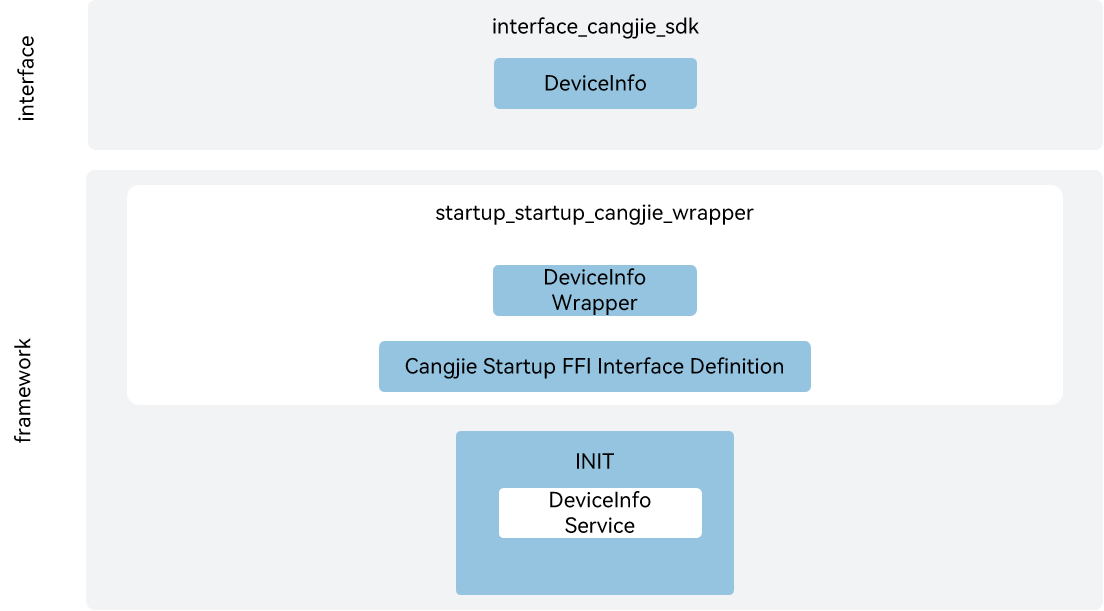
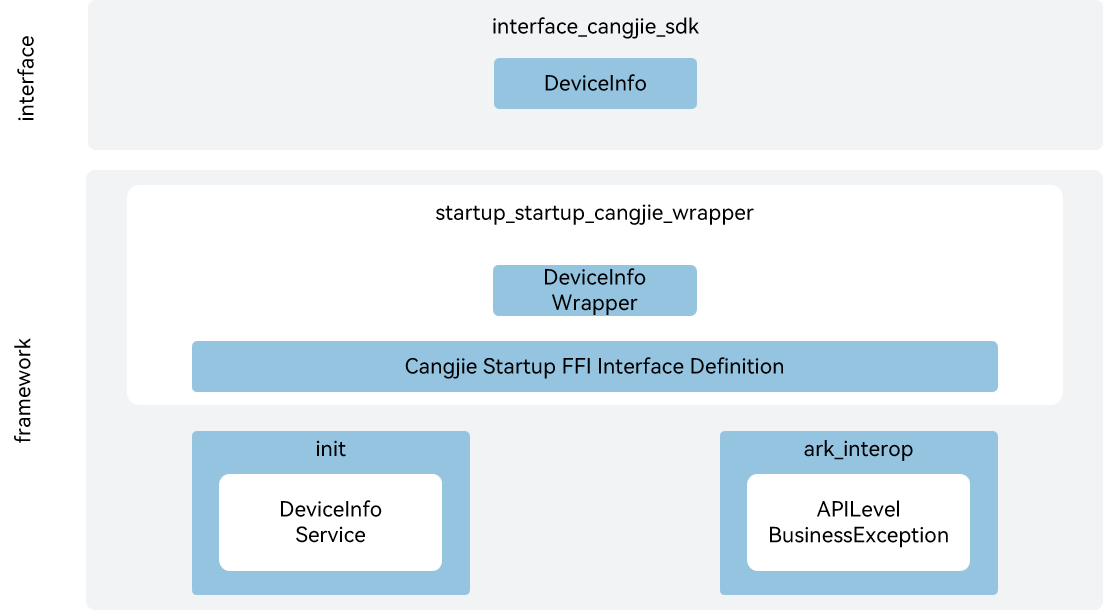
fix readme

diff --git a/README.md b/README.md
@@ -2,35 +2,36 @@
 
 ## Introduction
 
-The startup_startup_cangjie_wrapper is a Cangjie API encapsulated on OpenHarmony based on the capabilities of the startup subsystem. The startup subsystem is responsible for starting key system processes and services after the kernel is started and before applications are started. The currently open CommonEvent apis only support standard devices.
+The startup_startup_cangjie_wrapper is a Cangjie API encapsulated on OpenHarmony based on the capabilities of the startup subsystem. The startup subsystem is mainly responsible for the startup process of key system processes and services after the kernel is started and before the application is started. The currently open startup Cangjie API only supports standard devices.
 
 ## System Architecture
 
 **Figure 1** startup_cangjie_wrapper architecture
 
-![startup_cangjie_wrapper architecture](figures/startup_cangjie_wrapper_architecture_en.png "startup_cangjie_wrapper architecture")
+![startup_cangjie_wrapper architecture](figures/startup_cangjie_wrapper_architecture_en.png)
 
-As shown in the architecture pictures, startup provides DeviceInfo:
+As shown in the architecture diagram, the current startup Cangjie API provides device information services:
 
-- DeviceInfo mainly includes OHOS fixed-value parameters, manufacturer fixed-value parameters, and manufacturer dynamic parameters.
-- Cangjie Startup FFI Interface Definition： Responsible for defining the C-interoperable Cangjie interface, which is used to realize Cangjie's startup capabilities.
-- INIT：Responsible for providing the device information SA service, and encapsulating the C interface for interoperation with Cangjie.
+- DeviceInfo: Mainly includes OHOS fixed-value parameters, manufacturer fixed-value parameters, and manufacturer dynamic parameters.
+- Cangjie Startup FFI Interface Definition: Responsible for defining C language interoperation Cangjie interfaces, used to implement Cangjie startup capabilities.
+- init: Responsible for providing device information SA services, encapsulating C interfaces for interoperation with Cangjie.
+- ark_interop: Provides APILevel and BusinessException.
 
 ## Directory Structure
 
 ```
 base/startup/startup_cangjie_wrapper
-├── figures      # architecture pictures
-└── ohos         # Cangjie Startup code
-│   └── device_info
-└── test         # Cangjie Startup test cases
+├── figures         # architecture pictures
+└── ohos            # Cangjie startup subsystem interface implementation
+│   └── device_info # DeviceInfo module implementation
+└── test            # Cangjie startup subsystem test cases
 ```
 
 ## Usage
 
-The following features provides the capability to query deviceinfo.
+The current startup Cangjie API mainly provides device information services.
 
-For relevant API of startup, please refer to [ohos.device_info (Device Information)](https://gitcode.com/openharmony-sig/arkcompiler_cangjie_ark_interop/blob/master/doc/API_Reference/source_en/apis/BasicServicesKit/cj-apis-device_info.md).
+For startup related APIs, please refer to [ohos.device_info (Device Information)](https://gitcode.com/openharmony-sig/arkcompiler_cangjie_ark_interop/blob/master/doc/API_Reference/source_en/apis/BasicServicesKit/cj-apis-device_info.md).
 
 ## Code Contribution
 
@@ -38,4 +39,5 @@ Developers are welcome to contribute code, documentation, etc. For specific cont
 
 ## Repositories Involved
 
-[startup_init](https://gitee.com/openharmony/startup_init/blob/master/README_zh.md)
+[arkcompiler_cangjie_ark_interop](https://gitcode.com/openharmony-sig/arkcompiler_cangjie_ark_interop)
+[startup_init](https://gitcode.com/openharmony/startup_init)

diff --git a/README_zh.md b/README_zh.md
@@ -2,33 +2,34 @@
 
 ## 简介
 
-启动恢复仓颉接口是在 OpenHarmony 上基于启动恢复子系统能力之上封装的仓颉API。启动恢复负责在内核启动之后到应用启动之前系统关键进程和服务的启动过程。当前开放的启动恢复仓颉接口仅支持standard设备。
+启动恢复仓颉接口是在OpenHarmony上基于启动恢复子系统能力之上封装的仓颉API。启动恢复主要负责在内核启动之后到应用启动之前系统关键进程和服务的启动过程。当前开放的启动恢复仓颉接口仅支持standard设备。
 
 ## 系统架构
 
 **图 1** 启动恢复仓颉架构图
 
-![启动恢复仓颉架构图](figures/startup_cangjie_wrapper_architecture_zh.png "启动恢复仓颉架构图")
+![启动恢复仓颉架构图](figures/startup_cangjie_wrapper_architecture_zh.png)
 
 如架构图所示，当前启动恢复仓颉接口提供设备信息服务:
 
 - 设备信息: 主要包括OHOS固定值参数、厂商固定值参数以及厂商动态参数。
-- 仓颉启动恢复FFI接口定义： 负责定义C互操作仓颉接口，用于实现仓颉启动恢复能力。
-- 启动引导部件：负责提供设备信息SA服务，封装C接口提供给仓颉进行互操作。
+- 仓颉启动恢复FFI接口定义： 负责定义C语言互操作仓颉接口，用于实现仓颉启动恢复能力。
+- 启动引导部件：负责提供设备信息SA服务，封装C语言接口提供给仓颉进行互操作。
+- 仓颉互操作：提供API标签与异常类。
 
 ## 目录
 
-```cangjie
+```
 base/startup/startup_cangjie_wrapper
-├── figures      # 存放README中的架构图
-└── ohos         # 仓颉启动恢复子系统接口实现
-│   └── device_info
-└── test         # 仓颉启动恢复子系统测试用例
+├── figures         # 存放README中的架构图
+└── ohos            # 仓颉启动恢复子系统接口实现
+│   └── device_info # 设备信息模块实现
+└── test            # 仓颉启动恢复子系统测试用例
 ```
 
 ## 使用说明
 
-当前启动恢复仓颉接口提供查询设备信息服务的能力。
+当前启动恢复仓颉接口主要设备信息服务。
 
 启动恢复相关API请参见[ohos.device_info（设备信息）](https://gitcode.com/openharmony-sig/arkcompiler_cangjie_ark_interop/blob/master/doc/API_Reference/source_zh_cn/apis/BasicServicesKit/cj-apis-device_info.md)。
 
@@ -38,4 +39,5 @@ base/startup/startup_cangjie_wrapper
 
 ## 相关仓
 
-[startup_init](https://gitee.com/openharmony/startup_init/blob/master/README_zh.md)
+[arkcompiler_cangjie_ark_interop](https://gitcode.com/openharmony-sig/arkcompiler_cangjie_ark_interop)
+[startup_init](https://gitcode.com/openharmony/startup_init)
